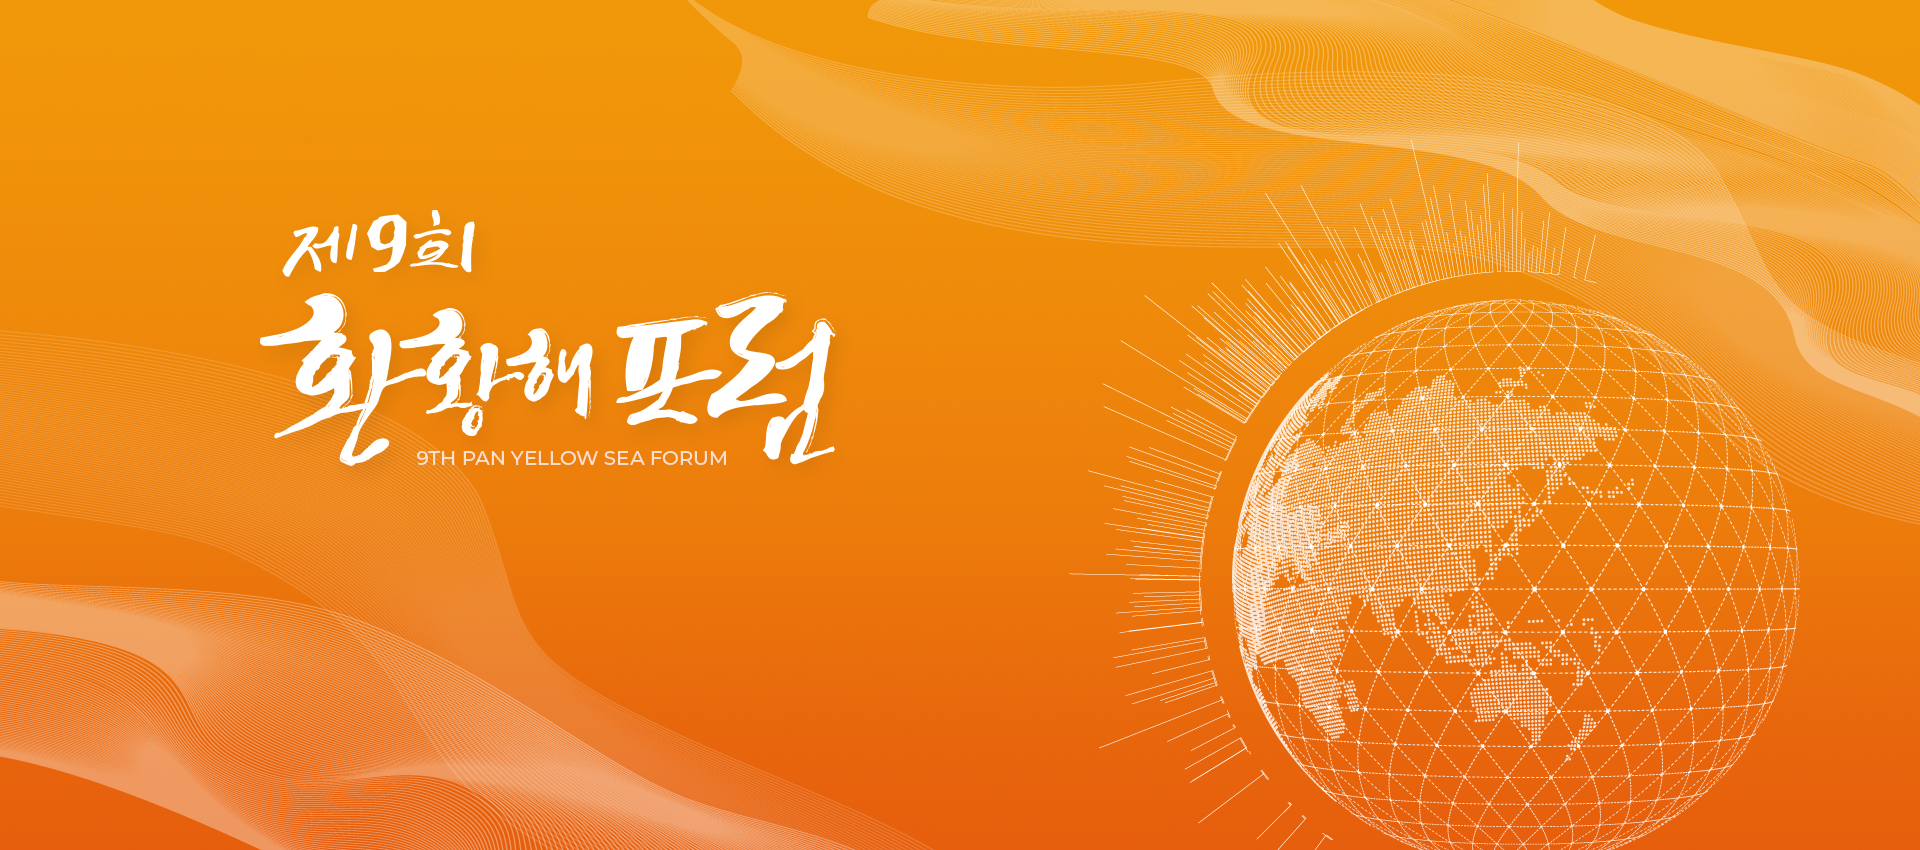
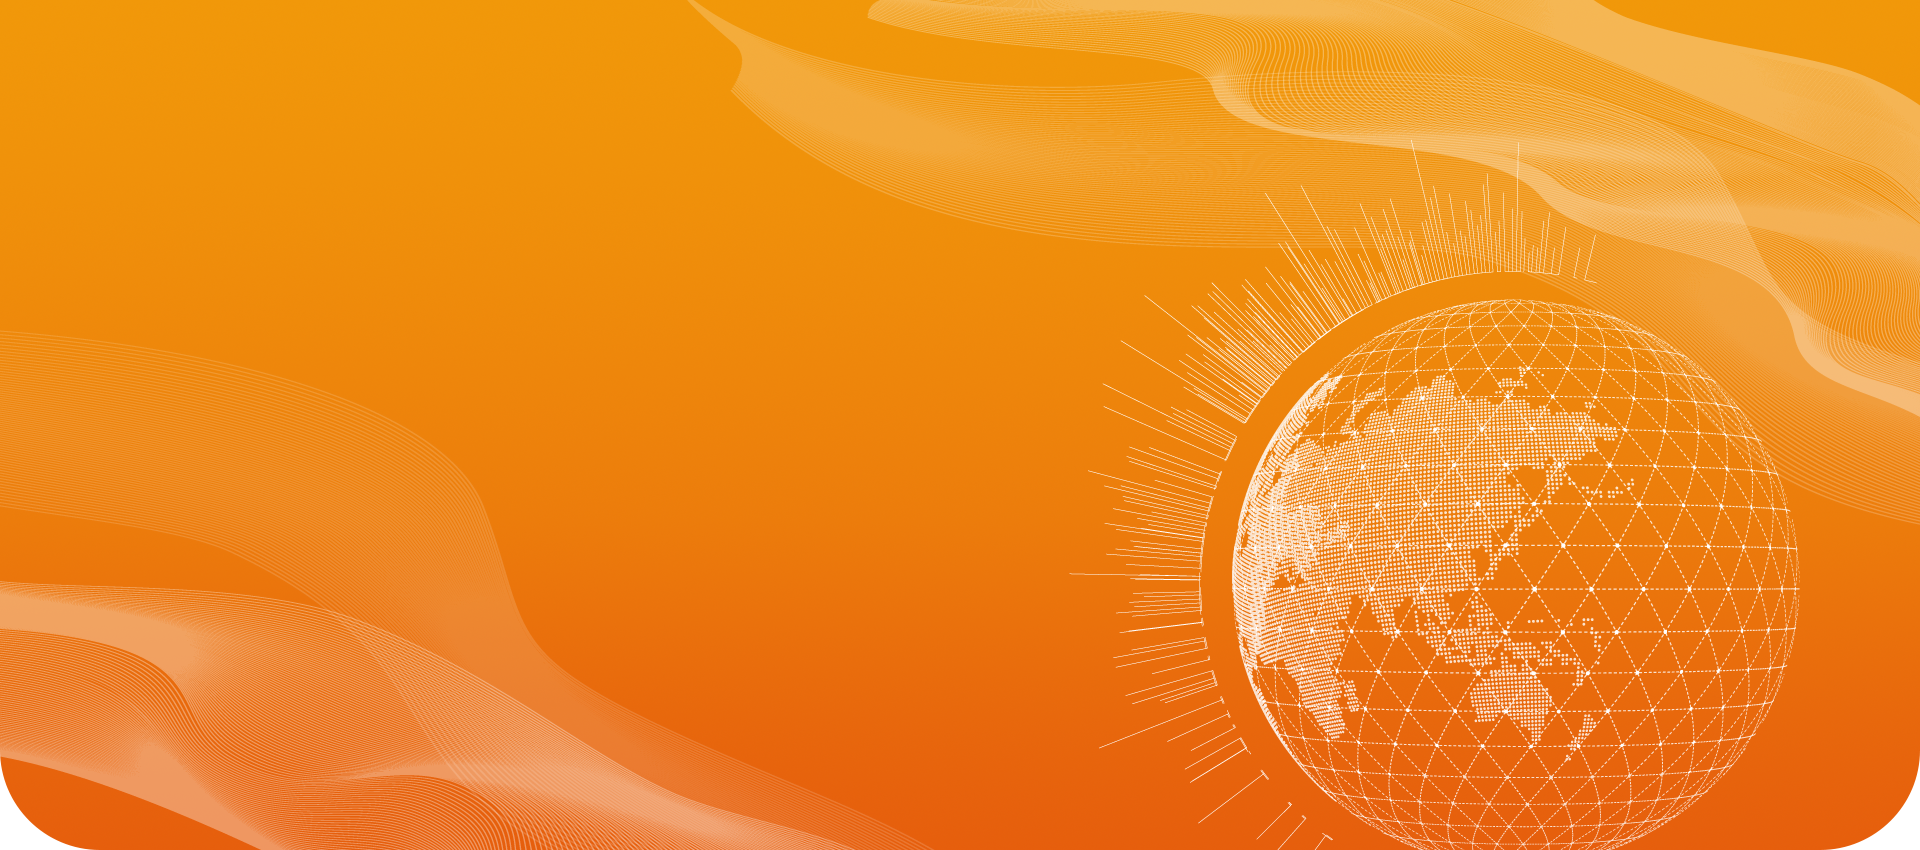
헤더 및 메인 반응형 작업중

diff --git a/index.html b/index.html
@@ -92,7 +92,7 @@
         <div class="full-menu-wrap">
           <div class="full-menu-box">
             <div class="full-menu-inner">
-              <a href="" class="full-menu-title">행사소개</a>
+              <p class="full-menu-title">행사소개</p>
               <ul class="full-menu-list">
                 <li class="full-menu-link">
                   <a href="">포럼소개</a>
@@ -116,7 +116,7 @@
           </div>
           <div class="full-menu-box">
             <div class="full-menu-inner">
-              <a href="" class="full-menu-title">참가자안내</a>
+              <p class="full-menu-title">참가자안내</p>
               <ul class="full-menu-list">
                 <li class="full-menu-link">
                   <a href="">등록신청</a>
@@ -132,7 +132,7 @@
           </div>
           <div class="full-menu-box">
             <div class="full-menu-inner">
-              <a href="" class="full-menu-title">자료실</a>
+              <p class="full-menu-title">자료실</p>
               <ul class="full-menu-list">
                 <li class="full-menu-link">
                   <a href="">이전 포럼</a>
@@ -145,7 +145,7 @@
           </div>
           <div class="full-menu-box">
             <div class="full-menu-inner">
-              <a href="" class="full-menu-title">커뮤니티</a>
+              <p class="full-menu-title">커뮤니티</p>
               <ul class="full-menu-list">
                 <li class="full-menu-link">
                   <a href="">공지사항</a>
@@ -195,10 +195,13 @@
         <div class="main-vs-wrap">
           <div class="main-vs">
             <div class="main-vs-img">
-              <img src="/source/img/main-vs01.png" alt="">
+              <img src="/source/img/main-vs01.png" alt="메인 배너 이미지">
             </div>
           </div>
           <div class="main-vs-title-box">
+            <div class="main-vs-title">
+              <img src="/source/img/main-title.png" alt="제9회 환황해포럼 9TH PAN YELLOW SEA FORUM">
+            </div>
             <p class="i-col-0 main-vs-text">
               <span class="left">일자</span>
               <span class="right">2023.09.24(일)~09.26(화)</span>
@@ -208,9 +211,9 @@
               <span class="right">롯데 리조트 부여</span>
             </p>
             <a href="" class="i-col-0 main-vs-ytb-btn">
-              <span><img src="/source/img/icon-ytb.png" alt="유튜브 생중계 바로가기"></span>
+              <span><img src="/source/img/icon-ytb.png" alt="유튜브 아이콘"></span>
               <span>유튜브 생중계 바로보기</span>
-              <span><img src="/source/img/icon-ytb-right.png" alt="유튜브 생중계 바로가기"></span>
+              <span><img src="/source/img/icon-ytb-right.png" alt="바로가기 아이콘"></span>
             </a>
           </div>
         </div>
@@ -360,7 +363,7 @@
                   </div>
                 </a>
               </div>
-              <!-- } loop -->
+              <!-- } loop / 썸네일(img) 사이즈 : 333*190 권장 -->
               <div class="main-promotion-sl-item">
                 <a href="" class="main-promotion-sl-item-inner">
                   <div class="main-promotion-thumb">

diff --git a/source/css/responsive.css b/source/css/responsive.css
@@ -1,9 +1,44 @@
 @media screen and (max-width:1700px){
+  /* common */
   .wrapper {width: 100%; padding-left: 50px; padding-right: 50px;}
+
 } /*@media End*/
 
-@media screen and (max-width:1290px){
+@media screen and (max-width:1440px){
+  /* common */
+  .wrapper {padding-left: 30px; padding-right: 30px;}
+
+  /* Fix Menu */
+  .fix-menu {right: 30px; bottom: 30px;}
+
+  /* Header */
+  .header .wrapper {padding: 0 30px;}
+  .gnb-ul > li {padding: 0 30px;}
+  .full-menu-box {padding: 30px 0 0 30px;}
+  .full-menu-box-half {padding: 0;}
+  .full-menu-box-half .full-menu-title {padding: 30px 30px 35px;}
+  .full-menu-list {padding: 10px 0;}
+
   
+} /*@media End*/
+
+@media screen and (max-width:1280px){
+  /* Header */
+  .gnb {display: none;}
+  .full-menu {position: absolute; right: -100%; top: 100%; display: block; width: 500px; max-width: 100%; height: 100vh; transition: 0.5s ease-out;}
+  .full-menu.active {right: 0; transition: 0.3s ease-out;}
+  .full-menu-wrap {display: block; padding-top: 30px;}
+  .full-menu-box {display: block; width: 100%; border: none; padding: 0;}
+  .full-menu-inner {padding: 10px 35px;}
+  .full-menu-title {position: relative;}
+  .full-menu-title:after {content:""; width: 13px; height: 8px; background: url(/source/img/select-arrow.png) no-repeat center center; position: absolute; right: 0; top: 50%; margin-top: -4px; transition: 0.2s ease-out;}
+  .full-menu-box-half .full-menu-inner:first-child {border-bottom: none;}
+  .full-menu-box-half .full-menu-title {padding: 0;}
+  .full-menu-box-half .full-menu-title:after {display: none;}
+  .full-menu-inner.active .full-menu-title:after {transform: rotate(-180deg);}
+  .full-menu-list {display: none;}
+  .full-menu-box.active .full-menu-list {display: block;}
+
 } /*@media End*/
 
 @media screen and (max-width:1023px){
@@ -11,6 +46,17 @@
 } /*@media End*/
 
 @media screen and (max-width:767px){
+  /* common */
+  .wrapper {padding-left: 20px; padding-right: 20px;}
+
+  /* Header */
+  .header .wrapper {padding: 0 20px;}
+  .hd-wrap {height: 70px;}
+  .logo img {height: 45px;}
+  .all-menu {margin-left: 18px;}
+  .hd-right-menu-item .lang-btn {width: auto; height: 38px; padding: 0 13px;}
+  .hd-right-menu-item .lang-btn span {font-size: 13px;}
+  .hd-right-menu-item .lang-btn span:first-child {margin-bottom: -3px;}
   
 } /*@media End*/
 

diff --git a/source/css/normal.css b/source/css/normal.css
@@ -22,6 +22,8 @@
   .header {position: fixed; background-color: #fff; display: block; width: 100%; z-index: 50; box-shadow: 0 0 30px rgba(0,0,0,0.15);}
   .header .wrapper {width: 100%; padding: 0 50px; background: #fff;}
   .hd-wrap {display: flex; align-items: center; justify-content: space-between; height: 90px;}
+  .logo a {display: block;}
+  .logo a img {display: block;}
 
   .gnb-ul {margin: 0 -43px; height: 100%;}
   .gnb-ul > li {padding: 0 43px; position: relative; height: 100%;}
@@ -110,7 +112,8 @@
   /* Main Visual { */
     .main-vs-wrap {border-radius: 0 0 100px 100px; overflow: hidden; position: relative;}
     .main-vs-img img {width: 100%;}
-    .main-vs-title-box {position: absolute; z-index: 1; bottom: 141px; left: 50%; transform: translateX(-50%); max-width: 1350px; width: 100%;}
+    .main-vs-title-box {position: absolute; z-index: 1; top: 55%; left: 50%; transform: translate(-50%,-50%); max-width: 1350px; width: 100%; max-height: 100%;}
+    .main-vs-title {margin-bottom: 25px;}
     .main-vs-text {}
     .main-vs-text:first-child {padding-bottom: 4px;}
     .main-vs-text .left {font-weight: 600; font-size: 24px; color: #fff; position: relative; padding-left: 14px;}
@@ -199,7 +202,7 @@
     .main-promotion-sl-item {padding: 7px;}
     .main-promotion-sl-item-inner {display: block;}
     .main-promotion-thumb {border: 2px solid transparent; border-radius: 8px; overflow: hidden; transition: 0.2s ease-out;}
-    .main-promotion-thumb-img {height: 192px; border: 1px solid #ddd; border-radius: 5px; overflow: hidden; transition: 0.2s ease-out;}
+    .main-promotion-thumb-img {/*height: 192px;*/ height: 0; padding-bottom: 56%; border: 1px solid #ddd; border-radius: 5px; overflow: hidden; transition: 0.2s ease-out;}
     .main-promotion-thumb-img img {width: 100%;}
     .main-promotion-text-box {padding-top: 12px;}
     .main-promotion-text-box .title {font-weight: 500; font-size: 20px; color: #0f0f0f;}

diff --git a/source/js/normal.js b/source/js/normal.js
@@ -112,11 +112,33 @@ const fixMenu = () => {
  */
 const fullMenu = () => {
   let fullMenuBtn = $('.all-menu'),
-      fullMenu = $('.full-menu');
+      fullMenuWrap = $('.full-menu');
+  	
+  fullMenuBtn.removeClass('active');
+  fullMenuWrap.removeClass('active');
 
   fullMenuBtn.on('click', () => {
     fullMenuBtn.toggleClass('active');
-    fullMenu.slideToggle().toggleClass('active');
+    fullMenuWrap.slideToggle().toggleClass('active');
+  });
+  
+  //$(window).resize(function() {
+  //  if($(window).width() > 1280) {
+  //    fullMenuWrap.addClass('pc').removeClass('mo');
+  //  } else {
+  //    fullMenuWrap.addClass('mo').removeClass('pc');
+  //  }
+  //});
+}
+
+/**
+ * [공통] 모바일메뉴
+ */
+const mobileMenu = () => {
+  let menuLink = $('.full-menu-title');
+  	
+  menuLink.on('click', () => {
+    $(this).parents('.full-menu-box').addClass('active');
   });
 }
 
@@ -152,6 +174,6 @@ $(document).ready(function(){
   gnbOver();    // [공통] GNB 메뉴 마우스 오버
   fixMenu();    // [공통] 고정메뉴 및 탑버튼 function
   fullMenu();   // [공통] 풀다운메뉴
-  //mainPromotionSl(); // [메인] 홍보영상 슬라이드
+  // mainPromotionSl(); // [메인] 홍보영상 슬라이드
   popup();      // [이전포럼] 행사갤러리 팝업
 });
